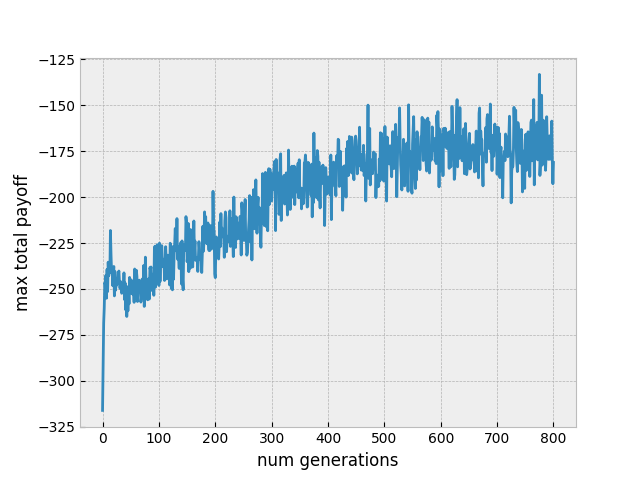
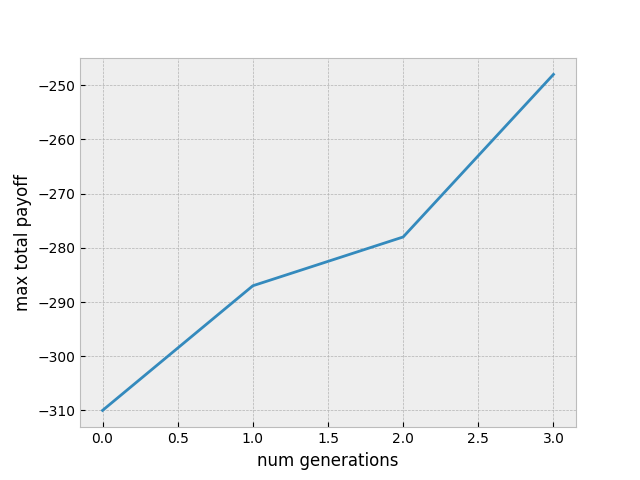
started checkers

diff --git a/src/checkers/checkers.py b/src/checkers/checkers.py
@@ -1,0 +1,68 @@
+class Checkers:
+    def __init__(self, players):
+        self.players = players
+        self.board = [[(i + j) % 2 * ((j < 3) - (j > 4)) for j in range(8)] for i in range(8)]
+        
+        
+        self.white_kings = []
+        self.black_kings = []
+        self.turn = 1
+
+    def check_promotion(self, pos):
+        x, y = pos
+        if self.board[x][y] == 1:
+            if x == 0:
+                self.white_kings.append((x, y))
+                self.board[x][y] = 3
+        elif self.board[x][y] == 2:
+            if x == 7:
+                self.black_kings.append((x, y))
+                self.board[x][y] = 4
+
+    def check_capture(self, pos):
+        x, y = pos
+        piece = self.board[x][y]
+        if piece == 1 or piece == 3:
+            if x < 7 and y < 7 and self.board[x+1][y+1] in (2,4):
+                if x < 6 and y < 6 and self.board[x+2][y+2] == 0:
+                    self.board[x+1][y+1] = 0
+                    self.check_capture((x+2, y+2))
+            if x < 7 and y > 0 and self.board[x+1][y-1] in (2,4):
+                if x < 6 and y > 1 and self.board[x+2][y-2] == 0:
+                    self.board[x+1][y-1] = 0
+                    self.check_capture((x+2, y-2))
+        elif piece == 2 or piece == 4:
+            if x > 0 and y < 7 and self.board[x-1][y+1] in (1,3):
+                if x > 1 and y < 6 and self.board[x-2][y+2] == 0:
+                    self.board[x-1][y+1] = 0
+                    self.check_capture((x-2, y+2))
+            if x > 0 and y > 0 and self.board[x-1][y-1] in (1,3):
+                if x > 1 and y > 1 and self.board[x-2][y-2] == 0:
+                    self.board[x-1][y-1] = 0
+                    self.check_capture((x-2, y-2))
+    def check_for_winner(self):
+        white_pieces_left = any(1 in row for row in self.board)
+        black_pieces_left = any(2 in row for row in self.board)
+        if not white_pieces_left and not black_pieces_left:
+            return 0
+        elif not white_pieces_left:
+            return 2
+        elif not black_pieces_left:
+            return 1
+        else:
+            return -1
+
+    def run(self):
+        while True:
+            if self.turn == 1:
+                current_player = self.players[0]
+                color = 1
+            else:
+                current_player = self.players[1]
+                color = 2
+
+            current_player.make_move(self, color)
+            winner = self.check_for_winner()
+            if winner != -1:
+                return winner
+            self.turn = 3 - self.turn

diff --git a/src/tic_tac_toe/fogel/test_fogel.py b/src/tic_tac_toe/fogel/test_fogel.py
@@ -13,8 +13,9 @@ from neural_net_player import *
 from near_perfect_player import *
 
 
-def evolve_neural_net(num_trials, num_gens, print_iter=False):
+def evolve_neural_net(num_trials, num_gens, print_iter=False, return_net=False):
     trials = {i:[] for i in range(num_trials)} #list full of each generation's best score
+    nets = []
 
     for trial_num in range(num_trials):
         t_start = time.time()
@@ -27,12 +28,14 @@ def evolve_neural_net(num_trials, num_gens, print_iter=False):
             g_start = time.time()
         
             current_gen = create_new_generation(prev_gen)
+            nets += current_gen
             trials[trial_num].append(best_net_score(current_gen))
             prev_gen = current_gen
             if print_iter: print(f'\tGen {_} - {round(time.time() - g_start, 3)}s')
 
         t = time.time() - t_start
         if print_iter: print(f'Trial {trial_num} Time: {round(t, 3)}s / {round(t/60, 3)}m \n')
+    if return_net: return sorted(nets, key=lambda x: x.score, reverse=True)[0]
     return trials
 
 
@@ -45,7 +48,11 @@ def calc_average_scores(trials):
     return averages
 
 
-trials = evolve_neural_net(40, 800, print_iter=True)
+# trials = evolve_neural_net(1, 3, print_iter=True)
+best_net = evolve_neural_net(1, 3, print_iter=True, return_net=True)
+print(best_net.score)
+quit()
+
 # print(trials)
 # print(calc_average_scores(trials))
 

diff --git a/src/checkers/random_player.py b/src/checkers/random_player.py
@@ -1,0 +1,25 @@
+import random
+
+class RandomPlayer:
+    def __init__(self):
+        self.color = 1
+
+    def make_move(self, board):
+        valid_moves = board.get_valid_moves(self.color)
+        if valid_moves:
+            move = random.choice(valid_moves)
+            start, end = move
+            board.move_piece(start, end)
+            board.check_promotion(end)
+            board.check_capture(end)
+
+    def get_valid_moves(self, color):
+        valid_moves = []
+        for i in range(8):
+            for j in range(8):
+                if self.board[i][j] == color:
+                    if color == 1 or color == 3:
+                        if j < 7 and self.board[i+1][j+1] == 0:
+                            valid_moves.append(((i, j), (i+1, j+1)))
+                        if j > 0 and self.board[i+1][j-1] == 0:
+                            valid_moves.append(((i, j), (i+1, j-1)))

diff --git a/src/checkers/test_checkers.py b/src/checkers/test_checkers.py
@@ -1,0 +1,11 @@
+import sys
+sys.path.append('src/checkers')
+from checkers import *
+from random_player import *
+
+
+players = [RandomPlayer(), RandomPlayer()]
+
+game = Checkers(players)
+game.run()
+print(game.winner)
